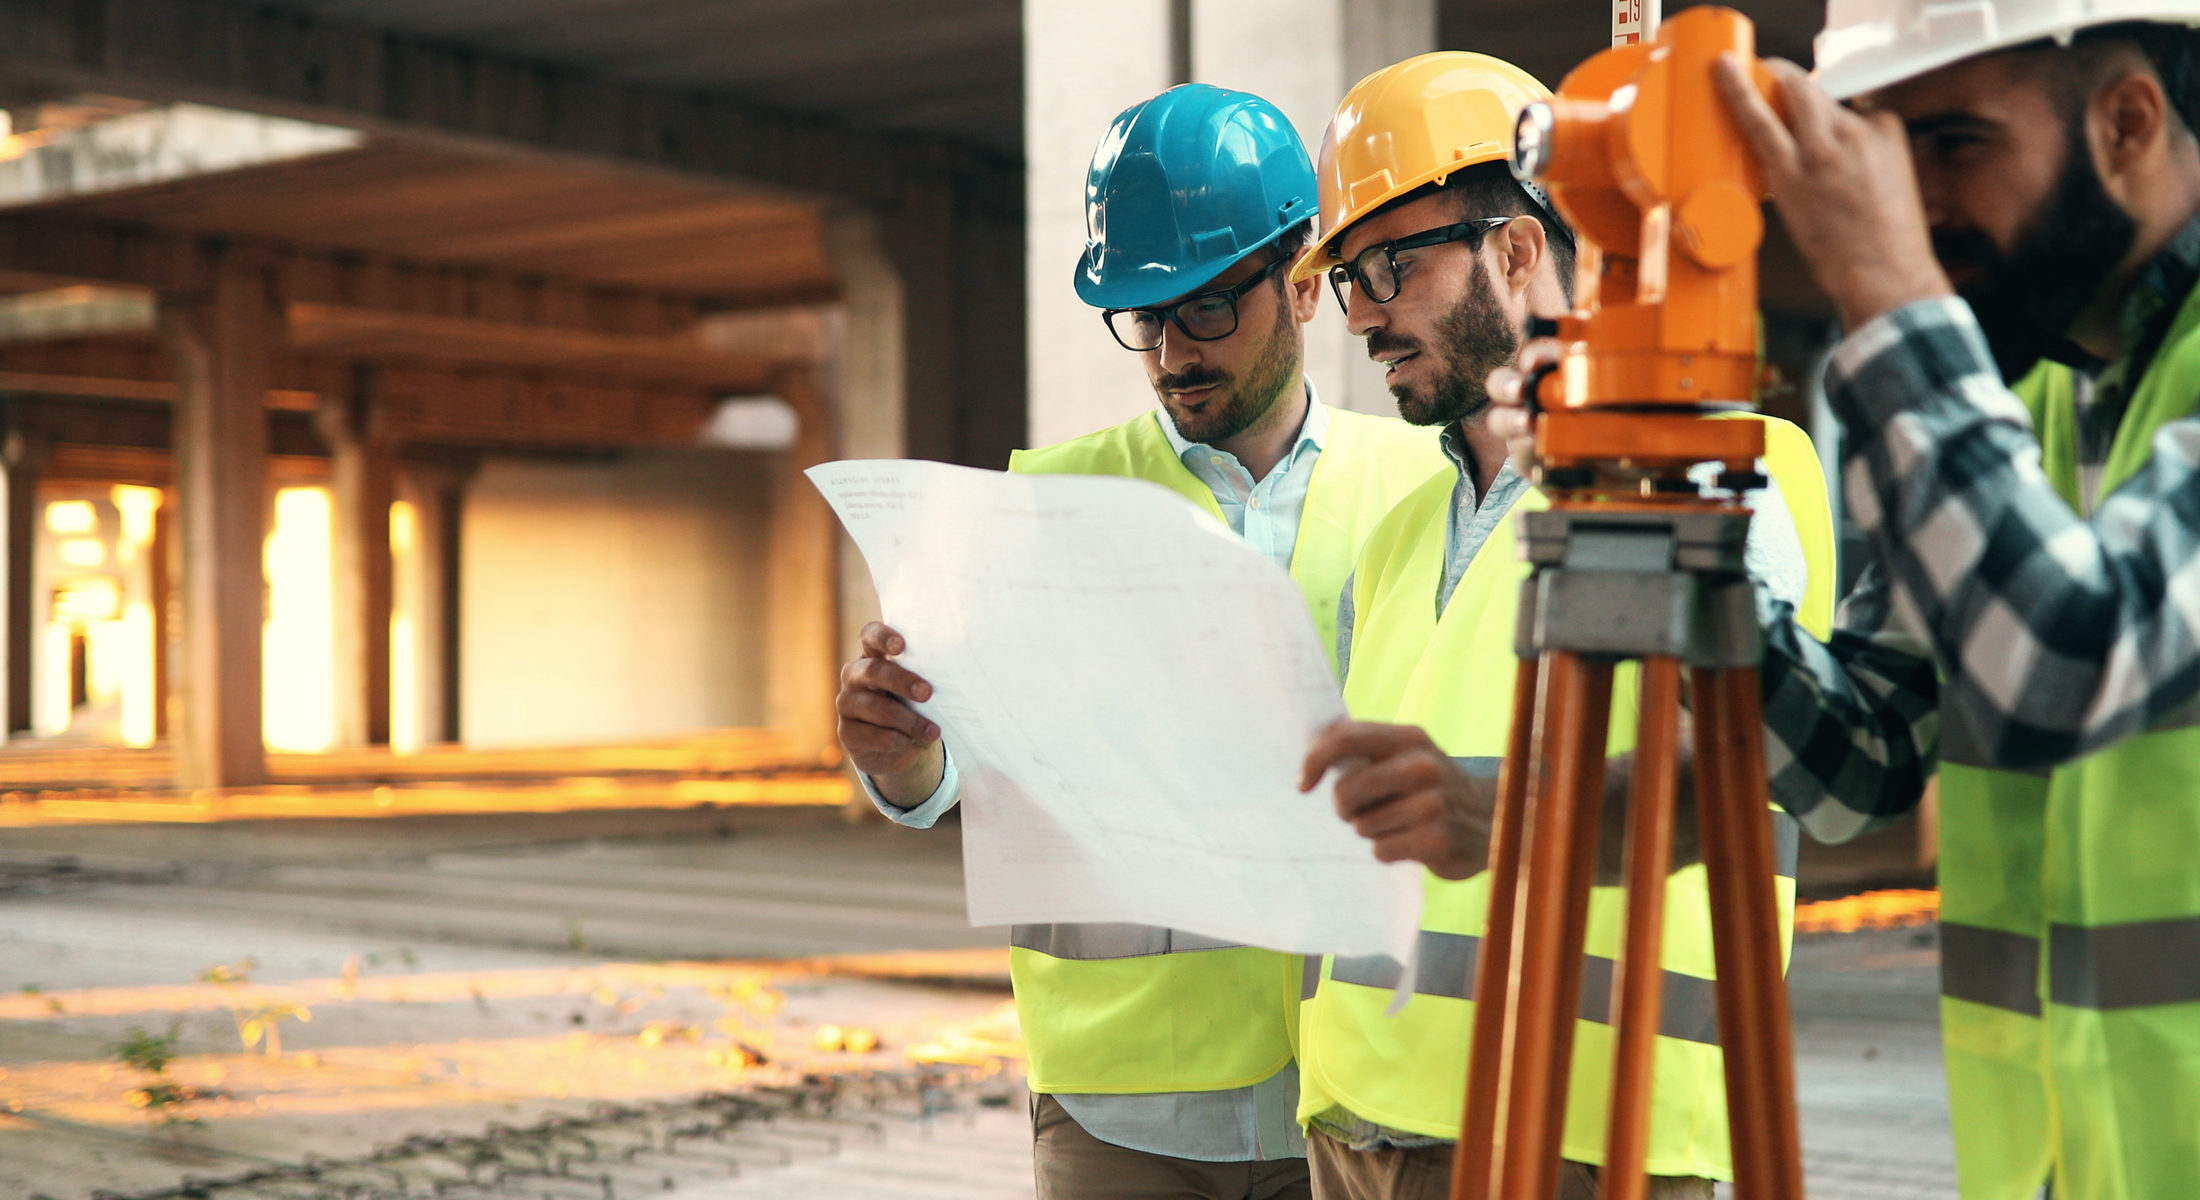
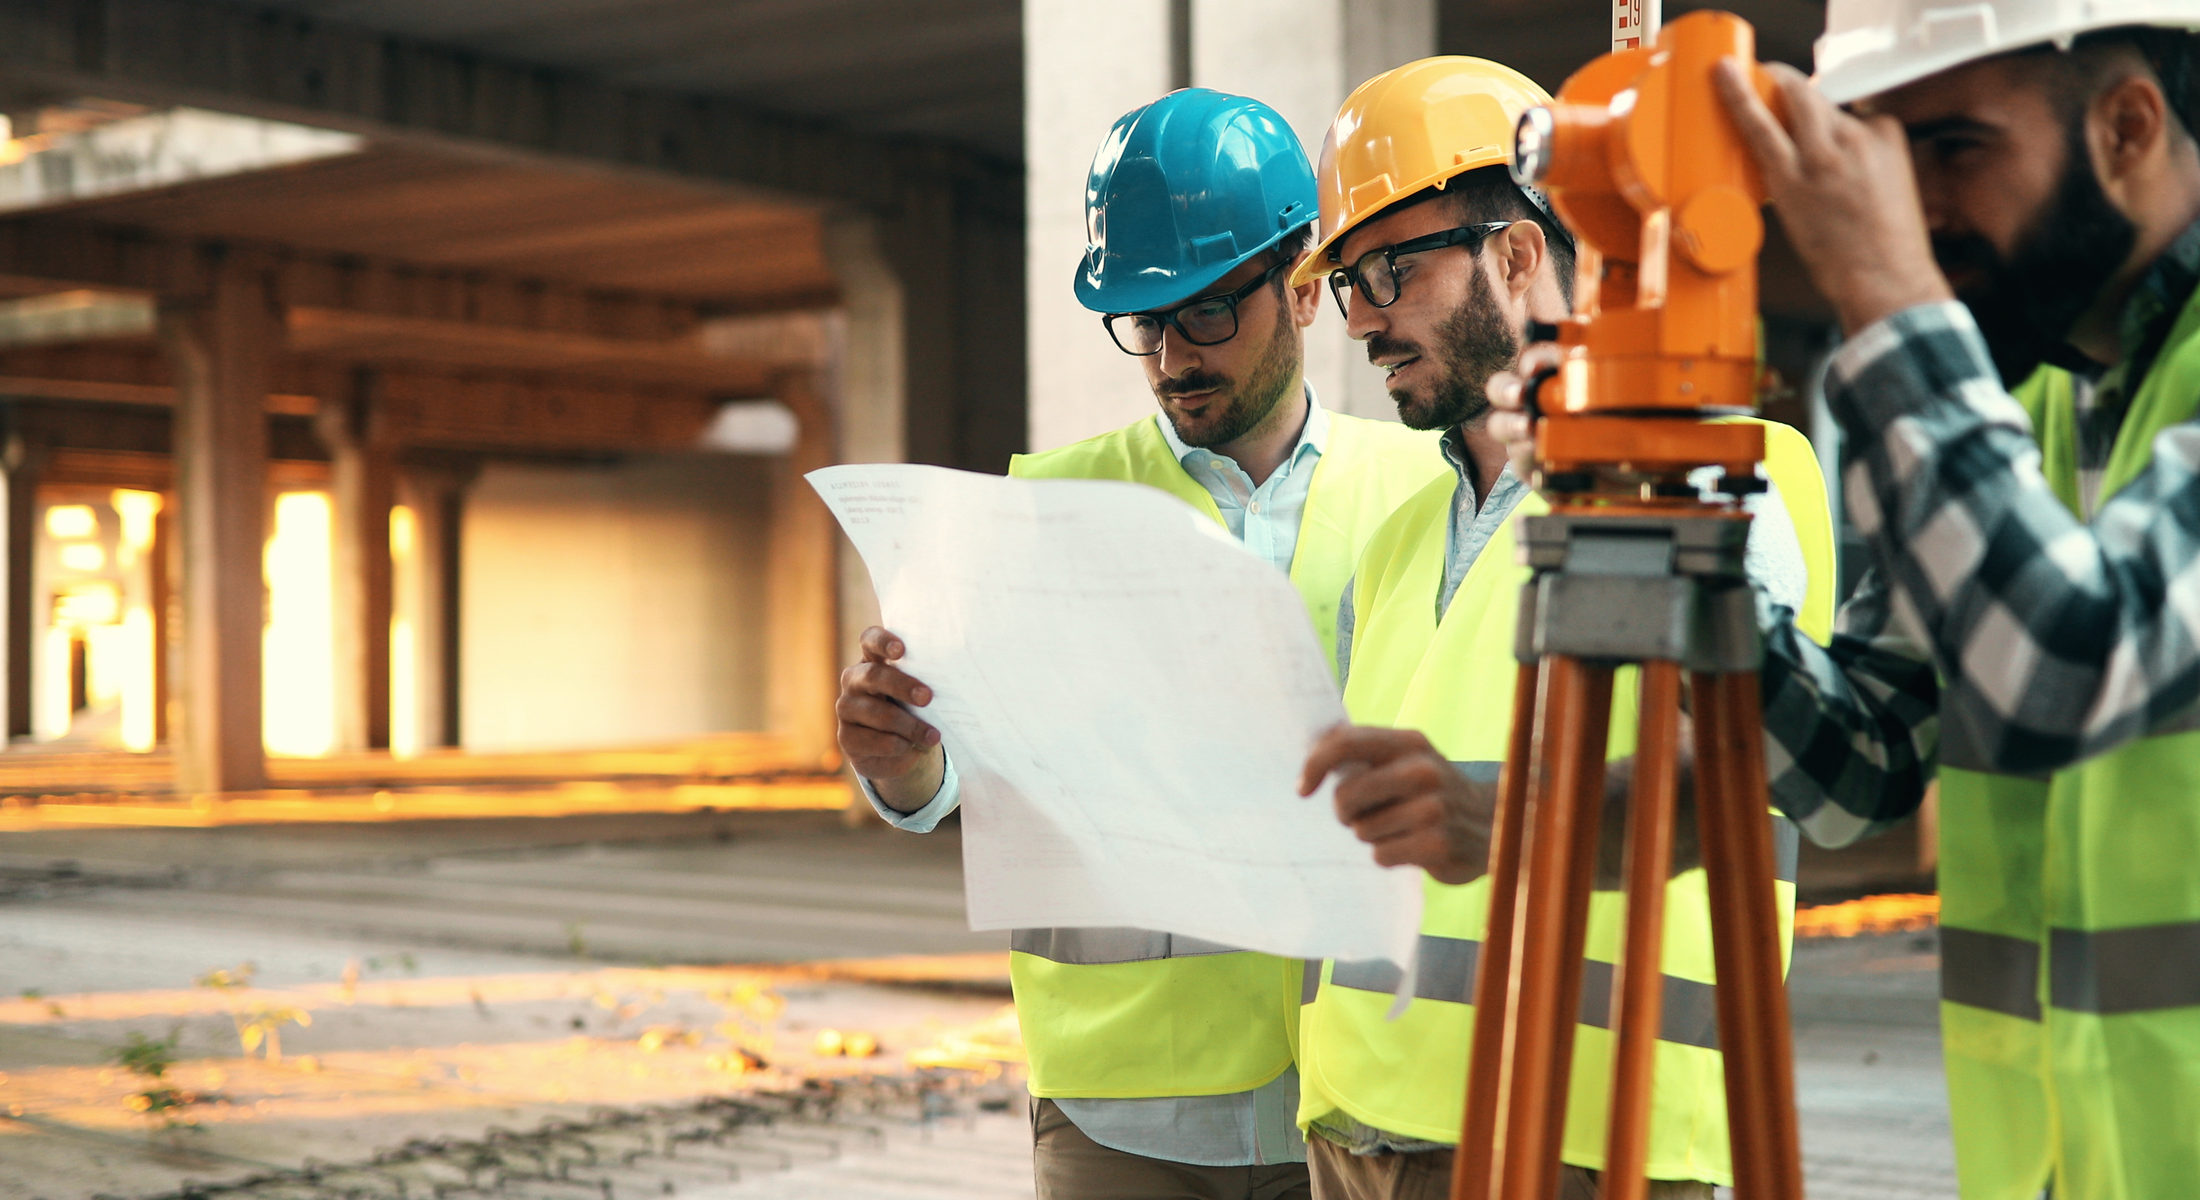
Construction: reframe four of the six section photos
A section renders 1380x720 and the file is 2200x1200, so cover scales it to
exactly the container width. Horizontal background-position does nothing and
only 33px of height is ever cropped. Framing is therefore decided entirely in
the crop, which is what these numbers change.

1 Owners and 3 Trade contractors move further left, on a new per-image
horizontal target rather than by fudging the subject position.
3 Trade contractors, 4 Design and 6 Assurance anchor to the top of the source,
because heads and hard hats were clipping against the top edge.
2 General contractors and 5 Supply and site logistics are unchanged.

diff --git a/build/sideaware.py b/build/sideaware.py
@@ -41,10 +41,10 @@ PLAN = [
     ("cons-hero",         "r", 0.30, True,  None, 0.75),   # trio sits left in the original
     ("cons-owners",       "l", 0.74, True,  None, 0.55),   # trio sits right in the original
     ("cons-contractors",  "r", 0.72, False, None, 0.50),   # hands and tablet already right
-    ("cons-trades",       "l", 0.26, False, None, 0.35),   # frame high, the worker reaches up
-    ("cons-design",       "r", 0.28, True,  None, 0.50),   # mirror puts the pair right, model left
+    ("cons-trades",       "l", 0.26, False, None, 0.05),   # frame high, he reaches into the ceiling
+    ("cons-design",       "r", 0.28, True,  None, 0.00),   # mirror puts the pair right, model left
     ("cons-logistics",    "l", 0.26, False, None, 0.50),   # golden hour, already on the palette
-    ("cons-assurance",    "r", 0.62, False, None, 0.50),   # surveyors already weighted right
+    ("cons-assurance",    "r", 0.62, False, None, 0.00),   # anchor top, the hard hats were clipping
 ]
 WARM.add("plat-integration")
 WARM.add("plat-hero")
@@ -55,6 +55,9 @@ MILD = {"area-operations", "fam-pulse", "area-owners", "company-hero",
         "cons-design", "cons-assurance"}     # cons-contractors is already warm wood     # a gentle nudge, not the night-shot regrade
 
 TARGET = {"l": 0.34, "r": 0.66}   # pulled in from the edges so less width is thrown away
+# a section shows the whole width of the file, so horizontal framing is decided here
+# and nowhere else. These want the subject further out than the default.
+TARGET_FOR = {"cons-owners": 0.18, "cons-trades": 0.18}
 MIN_KEEP = 0.90                    # never crop away more than this much width
 KEEP_ALL = {"cap-hero", "company-hero"}   # the group is the subject, keep the full width
 # a subject sitting dead centre cannot reach the target on a 10% crop, so these
@@ -68,7 +71,7 @@ def build(name, side, subj, mirror, lift, anchor):
         im = ImageOps.mirror(im)
         subj = 1.0 - subj
 
-    t = TARGET[side]
+    t = TARGET_FOR.get(name, TARGET[side])
     W, H = im.size
 
     # narrowest crop that still reaches the target, so we throw away as little as possible
@@ -124,7 +127,8 @@ if __name__ == "__main__":
     for name, side, subj, mirror, lift, anchor in PLAN:
         mir, landed, fov, kb = build(name, side, subj, mirror, lift, anchor)
         tot += kb
-        ok = "ok" if abs(landed - TARGET[side]) < 0.10 else "OFF TARGET"
+        tgt = TARGET_FOR.get(name, TARGET[side])
+        ok = "ok" if abs(landed - tgt) < 0.10 else "OFF TARGET"
         print("%-16s %-5s %-9s %-10.2f %-11s %5.0f KB  %s" % (
             name.replace("area-", ""), side, "yes" if mir else "no", landed,
             "%.0f%%" % (fov * 100), kb, ok))
